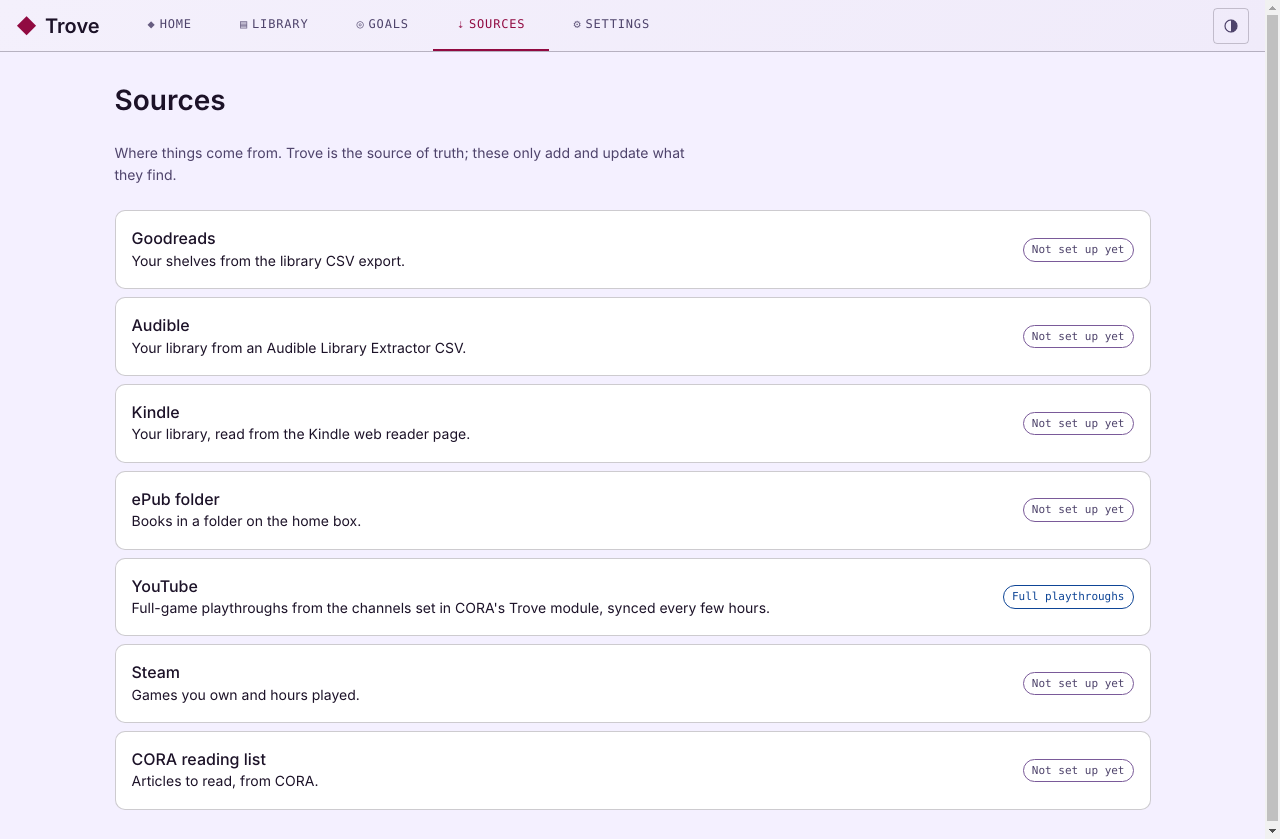
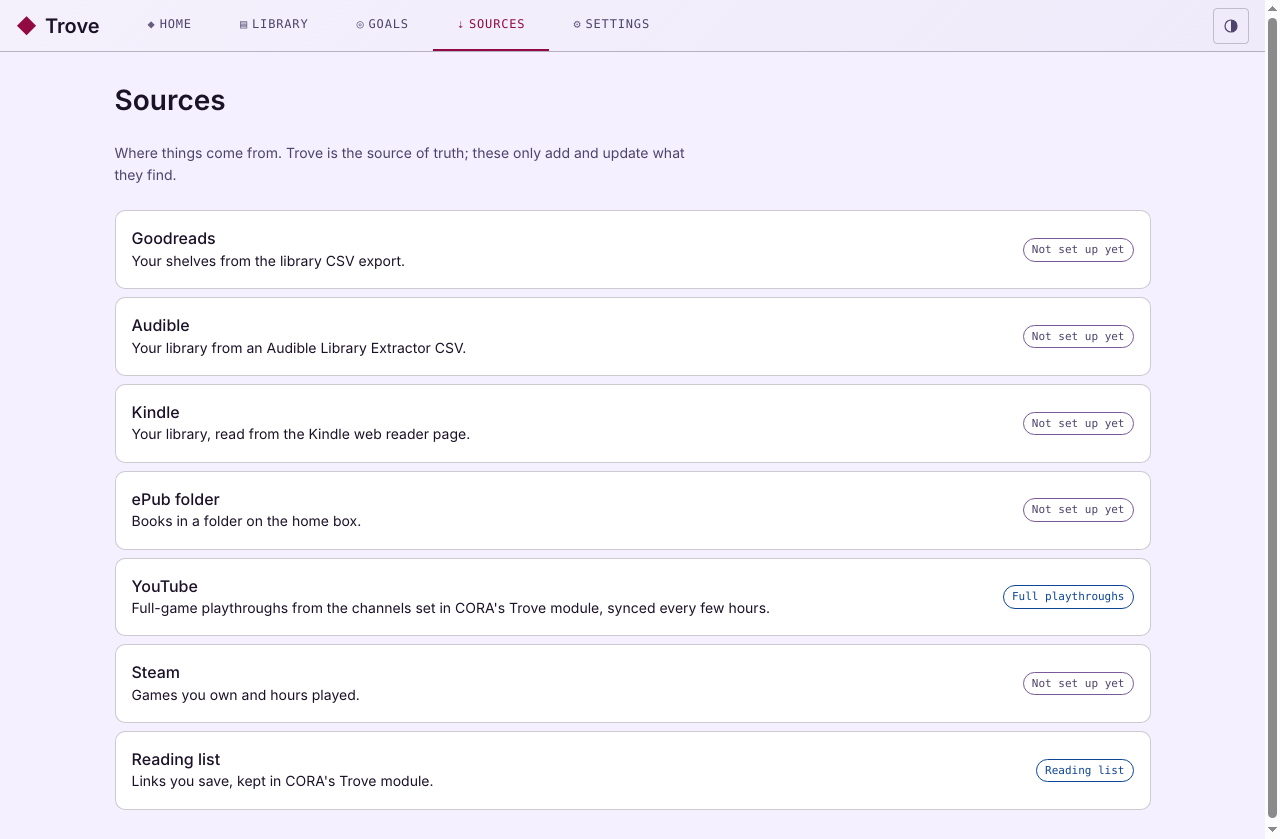
Reading list review fixes: CORA's reason on a 502, Sources label, sturdier errors, no snap-back
The module's own 502 detail (CORA couldn't be reached) now reaches the banner instead of
being replaced with "CORA couldn't reach the Trove module." The Sources page links each
source by its own name. The reading list shows a banner, not the error bar, for answers it
can't read, and a card moved while CORA reads it stays where it was moved. A failed read's
View in CORA opens the changeset. Adds reading list screenshots and refreshes Library and
Sources.

diff --git a/tests/Trove.Tests/ArticleBoardTests.cs b/tests/Trove.Tests/ArticleBoardTests.cs
@@ -280,6 +280,39 @@ public sealed class ArticleBoardTests : BunitContext
     private static Article Saved(string id, string url, string title, ReadState state, ArticleSource source = ArticleSource.Link, string? sourceName = null) =>
         new(id, url, title, new Uri(url).Host, null, null, null, source, sourceName, Added, state, null);
 
+    [Fact]
+    public void A_list_in_a_shape_this_app_cant_read_says_so_and_tries_again()
+    {
+        library.LoadException = new System.Text.Json.JsonException("Unknown ReadState.");
+        var page = Render<Articles>();
+
+        Assert.Contains("couldn't read", page.Find("[role=alert]").TextContent, StringComparison.Ordinal);
+
+        library.LoadException = null;
+        page.FindAll("button").Single(b => b.TextContent == "Try again").Click();
+
+        Assert.NotNull(page.Find("[data-article=saved]"));
+    }
+
+    [Fact]
+    public void A_card_moved_while_CORA_reads_it_stays_where_it_was_moved()
+    {
+        library.Knowledge["saved"] = new CoraKnowledge(KnowledgeState.NotInCora);
+        library.CoraGate = new TaskCompletionSource();
+        var page = Render<Articles>();
+
+        page.Find("[data-article=saved] .trove-cora-add").Click();
+        page.Find("[data-article=saved] .trove-article-forward").Click();
+        library.CoraGate.SetResult();
+
+        page.WaitForAssertion(() =>
+        {
+            var card = page.Find("[data-article=saved]");
+            Assert.Equal("Mark done", card.QuerySelector(".trove-article-forward")!.TextContent.Trim());
+            Assert.Equal("Needs your check", card.QuerySelector(".trove-cora-badge")!.TextContent.Trim());
+        });
+    }
+
     private sealed class FakeLibrary : IArticleLibrary
     {
         private readonly List<Article> articles =
@@ -289,6 +322,11 @@ public sealed class ArticleBoardTests : BunitContext
         ];
 
         public string? LoadFailure { get; set; }
+
+        public Exception? LoadException { get; set; }
+
+        /// <summary>When set, Add to CORA waits for this before answering, with the article as it stood when pressed.</summary>
+        public TaskCompletionSource? CoraGate { get; set; }
 
         public FeedSyncStatus? Feeds { get; set; }
 
@@ -315,7 +353,9 @@ public sealed class ArticleBoardTests : BunitContext
         private Article WithCora(Article a) => a with { Cora = Knowledge.GetValueOrDefault(a.Id) };
 
         public Task<ArticleBoard> GetBoardAsync(CancellationToken cancellationToken = default) =>
-            LoadFailure is { } failure
+            LoadException is { } thrown
+                ? Task.FromException<ArticleBoard>(thrown)
+                : LoadFailure is { } failure
                 ? Task.FromException<ArticleBoard>(new HttpRequestException(failure))
                 : Task.FromResult(new ArticleBoard(
                     [.. articles.Select(WithCora), .. Extra is null ? Array.Empty<Article>() : [Extra]], Feeds, KnowledgeError));
@@ -366,7 +406,14 @@ public sealed class ArticleBoardTests : BunitContext
             }
 
             Knowledge[id] = new CoraKnowledge(KnowledgeState.Queued, "c9", "unread");
-            return Task.FromResult(WithCora(articles.Single(a => a.Id == id)));
+            var asPressed = WithCora(articles.Single(a => a.Id == id));
+            return CoraGate is { } gate ? AnswerLaterAsync(gate, asPressed) : Task.FromResult(asPressed);
+        }
+
+        private static async Task<Article> AnswerLaterAsync(TaskCompletionSource gate, Article answer)
+        {
+            await gate.Task;
+            return answer;
         }
 
         public Task RemoveAsync(string id, CancellationToken cancellationToken = default)

diff --git a/src/Trove.UI/CoraProblems.cs b/src/Trove.UI/CoraProblems.cs
@@ -1,0 +1,47 @@
+using System.Text.Json;
+
+namespace Trove.UI;
+
+/// <summary>Reading the problems CORA and the module answer with.</summary>
+public static class CoraProblems
+{
+    /// <summary>
+    /// What a 502 is about, in the words to show. A 502 has two senders. CORA sends one when it can't reach the module,
+    /// titled "The Trove module …", and that is said as it always has been. The module sends one when it can't reach
+    /// CORA's own services for a person's request, and its detail already says what went wrong and what to try, so that
+    /// is shown as written. Null for the first, or for a body that says nothing usable.
+    /// </summary>
+    public static string? GatewayReason(string body)
+    {
+        try
+        {
+            using var problem = JsonDocument.Parse(body);
+            var root = problem.RootElement;
+            if (root.ValueKind != JsonValueKind.Object)
+            {
+                return null;
+            }
+
+            if (root.TryGetProperty("title", out var title) && title.ValueKind == JsonValueKind.String
+                && title.GetString()!.StartsWith("The Trove module", StringComparison.Ordinal))
+            {
+                return null;
+            }
+
+            return Detail(root);
+        }
+        catch (JsonException)
+        {
+            return null;
+        }
+    }
+
+    /// <summary>A problem's detail, when it is a non-empty string.</summary>
+    public static string? Detail(JsonElement problem) =>
+        problem.ValueKind == JsonValueKind.Object
+        && problem.TryGetProperty("detail", out var detail)
+        && detail.ValueKind == JsonValueKind.String
+        && detail.GetString() is { Length: > 0 } text
+            ? text
+            : null;
+}

diff --git a/src/Trove.App/CoraApiHandler.cs b/src/Trove.App/CoraApiHandler.cs
@@ -1,13 +1,15 @@
 using System.Net;
 using System.Net.Http.Headers;
 using Microsoft.AspNetCore.Components;
+using Trove.UI;
 
 namespace Trove.App;
 
 /// <summary>
 /// Every call to CORA goes through here. CORA's cookie answers 401 (not a sign-in redirect) only when the request
 /// says it is an API call, and CORA turns away writes without X-Requested-With, so both headers go on every request.
-/// A 401 means the CORA sign-in has lapsed, so the page goes to CORA's sign-in and comes back here afterwards.
+/// A 401 means the CORA sign-in has lapsed, so the page goes to CORA's sign-in and comes back here afterwards. A 502
+/// says which side couldn't be reached; see <see cref="CoraProblems.GatewayReason"/>.
 /// </summary>
 public sealed class CoraApiHandler(NavigationManager navigation) : DelegatingHandler
 {
@@ -25,7 +27,10 @@ public sealed class CoraApiHandler(NavigationManager navigation) : DelegatingHan
             case HttpStatusCode.Conflict:
                 throw new HttpRequestException("The Trove module is turned off in CORA (Admin → Modules).", null, response.StatusCode);
             case HttpStatusCode.BadGateway:
-                throw new HttpRequestException("CORA couldn't reach the Trove module.", null, response.StatusCode);
+                throw new HttpRequestException(
+                    CoraProblems.GatewayReason(await response.Content.ReadAsStringAsync(cancellationToken))
+                        ?? "CORA couldn't reach the Trove module.",
+                    null, response.StatusCode);
             default:
                 return response;
         }

diff --git a/src/Trove.UI/Articles/HttpArticleLibrary.cs b/src/Trove.UI/Articles/HttpArticleLibrary.cs
@@ -35,12 +35,9 @@ public sealed class HttpArticleLibrary(HttpClient http) : IArticleLibrary
 
     public async Task<Article> AddToCoraAsync(string id, CancellationToken cancellationToken = default)
     {
+        // A 502 never gets here: the handler under this client turns it into a message, with the module's own words when
+        // it was CORA the module couldn't reach.
         using var response = await http.PostAsync($"api/articles/{Uri.EscapeDataString(id)}/add-to-cora", null, cancellationToken);
-        if (response.StatusCode == HttpStatusCode.BadGateway)
-        {
-            throw new HttpRequestException(await ErrorAsync(response, "CORA couldn't be reached. Try again in a moment."));
-        }
-
         await ThrowIfRefusedAsync(response, "CORA couldn't read this page.");
         return await response.Content.ReadFromJsonAsync<Article>(cancellationToken)
             ?? throw new InvalidOperationException("The server sent no article.");
@@ -73,7 +70,7 @@ public sealed class HttpArticleLibrary(HttpClient http) : IArticleLibrary
         try
         {
             using var body = JsonDocument.Parse(await response.Content.ReadAsStringAsync());
-            return body.RootElement.TryGetProperty("detail", out var detail) && detail.GetString() is { Length: > 0 } text ? text : fallback;
+            return CoraProblems.Detail(body.RootElement) ?? fallback;
         }
         catch (JsonException)
         {

diff --git a/tests/Trove.Tests/CoraProblemsTests.cs b/tests/Trove.Tests/CoraProblemsTests.cs
@@ -1,0 +1,26 @@
+using Trove.UI;
+
+namespace Trove.Tests;
+
+public sealed class CoraProblemsTests
+{
+    [Fact]
+    public void The_modules_own_reason_is_shown_as_written()
+    {
+        Assert.Equal(
+            "CORA couldn't be reached. Try again in a moment.",
+            CoraProblems.GatewayReason("""{"title":"Bad Gateway","status":502,"detail":"CORA couldn't be reached. Try again in a moment."}"""));
+    }
+
+    [Theory]
+    [InlineData("""{"title":"The Trove module could not be reached.","detail":"Connection refused (localhost:5199)"}""")]
+    [InlineData("""{"title":"The Trove module refused CORA's credentials.","detail":"Check that Modules:ServiceKey holds the same value."}""")]
+    [InlineData("""{"title":"Bad Gateway","detail":42}""")]
+    [InlineData("""<html>Bad gateway</html>""")]
+    [InlineData("""[]""")]
+    [InlineData("")]
+    public void Anything_else_falls_back_to_the_usual_sentence(string body)
+    {
+        Assert.Null(CoraProblems.GatewayReason(body));
+    }
+}

diff --git a/tests/Trove.Tests/SourcesPageTests.cs b/tests/Trove.Tests/SourcesPageTests.cs
@@ -1,0 +1,17 @@
+using Trove.UI.Pages;
+
+namespace Trove.Tests;
+
+public sealed class SourcesPageTests : BunitContext
+{
+    [Fact]
+    public void Each_set_up_source_links_by_its_own_name()
+    {
+        var page = Render<Sources>();
+
+        var links = page.FindAll("a.trove-pill").ToDictionary(a => a.GetAttribute("href")!, a => a.TextContent.Trim());
+
+        Assert.Equal("Full playthroughs", links["library/youtube"]);
+        Assert.Equal("Reading list", links["library/articles"]);
+    }
+}
